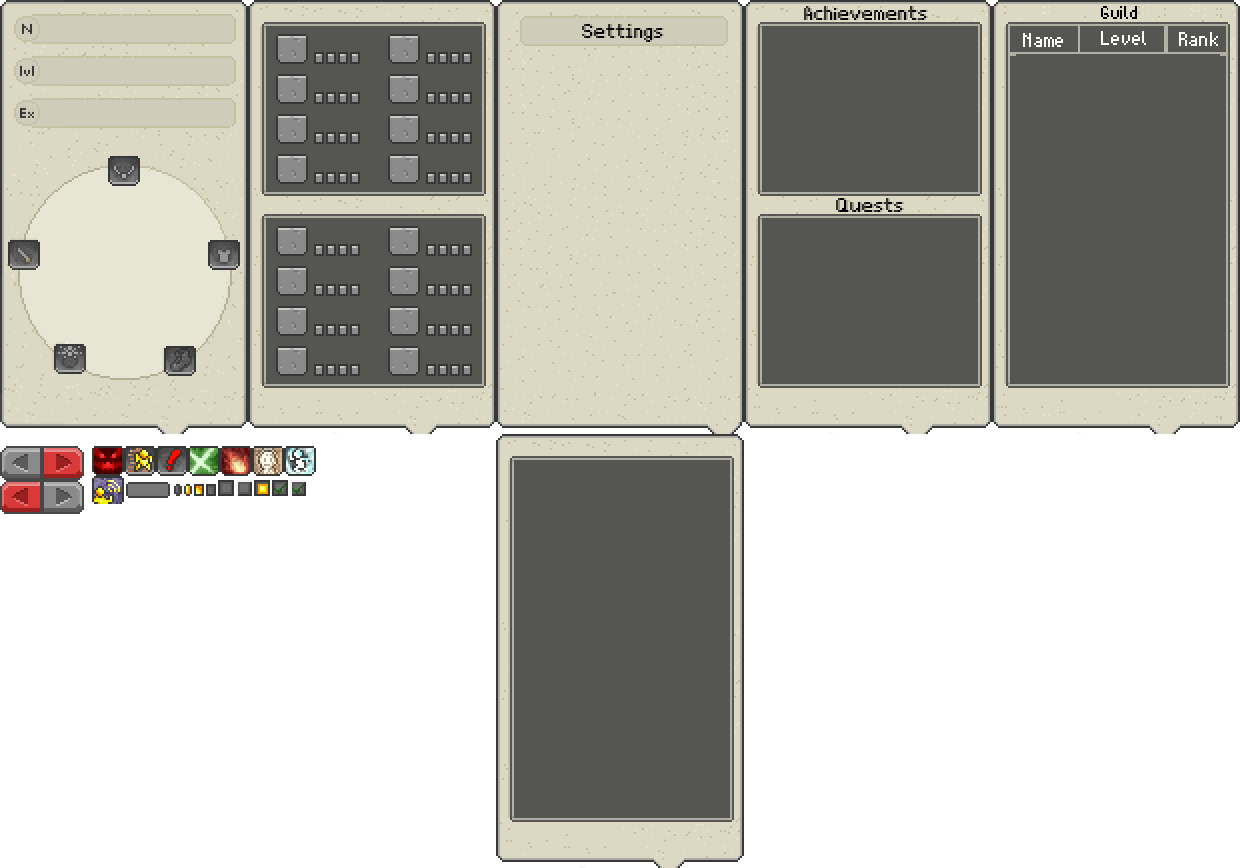
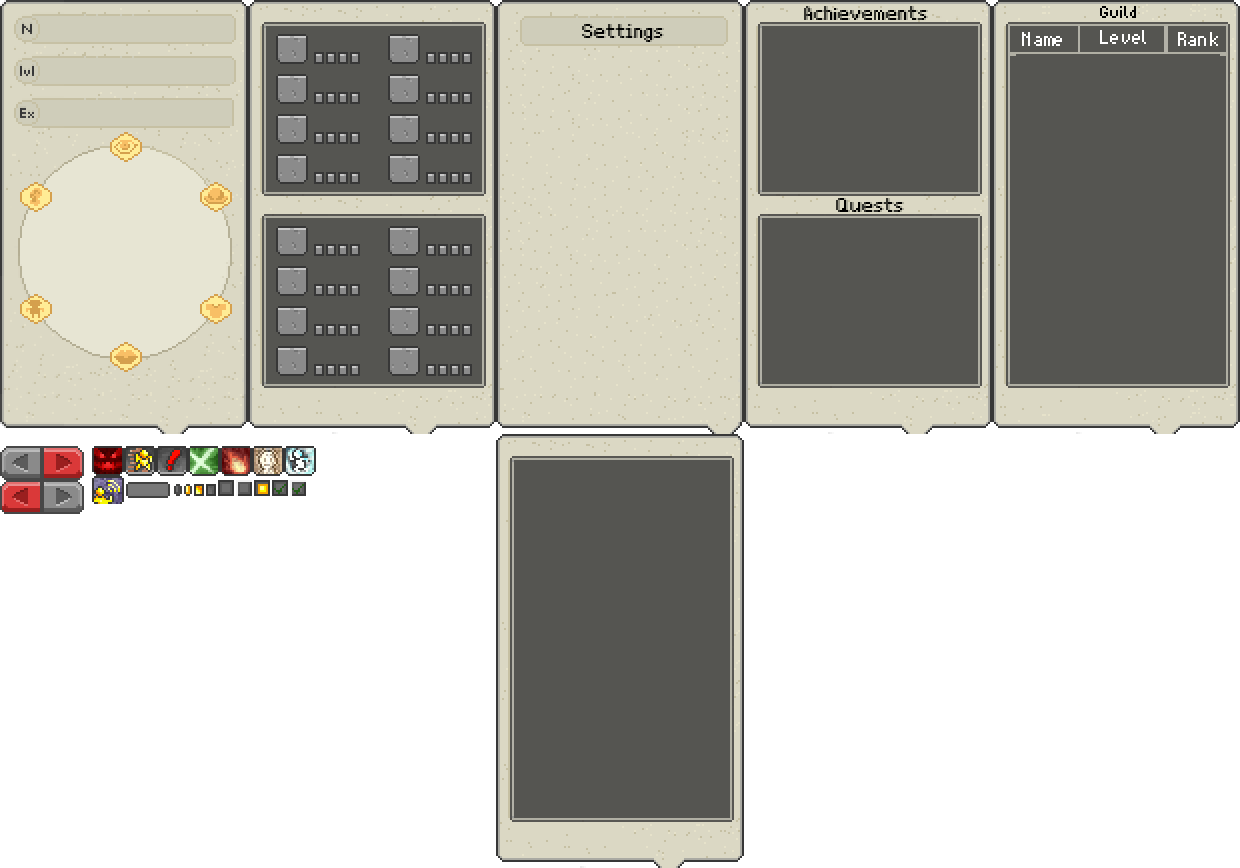
Equipment rendering and UI adjustments

diff --git a/packages/client/src/menu/profile/impl/state.ts b/packages/client/src/menu/profile/impl/state.ts
@@ -13,31 +13,26 @@ export default class State extends Menu {
     private experience: HTMLElement = document.querySelector('#profile-experience')!;
 
     // Equipment information
-    private weapon: HTMLElement = document.querySelector('#weapon-slot')!;
-    private weaponInfo: HTMLElement = document.querySelector('#weapon-slot-info')!;
-    private armour: HTMLElement = document.querySelector('#armour-slot')!;
-    private armourInfo: HTMLElement = document.querySelector('#armour-slot-info')!;
-
-    private pendant: HTMLElement = document.querySelector('#pendant-slot')!;
-    private ring: HTMLElement = document.querySelector('#ring-slot')!;
-    private boots: HTMLElement = document.querySelector('#boots-slot')!;
+    private eyes: HTMLElement = document.querySelector('#eyes-slot')!;
+    private hat: HTMLElement = document.querySelector('#hat-slot')!;
+    private clothes: HTMLElement = document.querySelector('#clothes-slot')!;
+    private mouth: HTMLElement = document.querySelector('#mouth-slot')!;
+    private fur: HTMLElement = document.querySelector('#fur-slot')!;
+    private ears: HTMLElement = document.querySelector('#ears-slot')!;
 
     private selectCallback?: SelectCallback;
 
     public constructor() {
         super('#state-page');
 
-        // this.weapon.addEventListener('click', () =>
-        //     this.selectCallback?.(Modules.Equipment.Weapon)
-        // );
-        // this.armour.addEventListener('click', () =>
-        //     this.selectCallback?.(Modules.Equipment.Armour)
-        // );
-        // this.pendant.addEventListener('click', () =>
-        //     this.selectCallback?.(Modules.Equipment.Pendant)
-        // );
-        // this.ring.addEventListener('click', () => this.selectCallback?.(Modules.Equipment.Ring));
-        // this.boots.addEventListener('click', () => this.selectCallback?.(Modules.Equipment.Boots));
+        this.eyes.addEventListener('click', () => this.selectCallback?.(Modules.Equipment.Eyes));
+        this.hat.addEventListener('click', () => this.selectCallback?.(Modules.Equipment.Hat));
+        this.clothes.addEventListener('click', () =>
+            this.selectCallback?.(Modules.Equipment.Clothes)
+        );
+        this.mouth.addEventListener('click', () => this.selectCallback?.(Modules.Equipment.Mouth));
+        this.fur.addEventListener('click', () => this.selectCallback?.(Modules.Equipment.Fur));
+        this.ears.addEventListener('click', () => this.selectCallback?.(Modules.Equipment.Ears))
     }
 
     /**
@@ -49,18 +44,20 @@ export default class State extends Menu {
 
     public override synchronize(player: Player): void {
         // Synchronize the player's general information
-        // this.name.textContent = player.name;
-        // this.level.textContent = `Level ${player.level}`;
-        // this.experience.textContent = `${player.experience}`;
-        // // Synchronize equipment data
-        // this.weapon.style.backgroundImage = Util.getImageURL(player.getWeapon().key);
-        // // Cloth armour shouldn't be displayed in the UI.
-        // this.armour.style.backgroundImage = Util.getImageURL(
-        //     player.getFur().key === 'clotharmor' ? '' : player.getFur().key
-        // );
-        // this.pendant.style.backgroundImage = Util.getImageURL(player.getPendant().key);
-        // this.ring.style.backgroundImage = Util.getImageURL(player.getRing().key);
-        // this.boots.style.backgroundImage = Util.getImageURL(player.getBoots().key);
+        this.name.textContent = player.name;
+        this.level.textContent = `Level ${player.level}`;
+        this.experience.textContent = `${player.experience}`;
+
+        // Synchronize equipment data
+        this.eyes.style.backgroundImage = Util.getImageURL(player.getEyes().key);
+        this.hat.style.backgroundImage = Util.getImageURL(player.getHat().key);
+        this.clothes.style.backgroundImage = Util.getImageURL(player.getClothes().key);
+        this.mouth.style.backgroundImage = Util.getImageURL(player.getMouth().key);
+        // Default green fur shouldn't be displayed in the equipment screen.
+        this.fur.style.backgroundImage = Util.getImageURL(
+            player.getFur().key === 'fur_green' ? '' : player.getFur().key
+        );
+        this.ears.style.backgroundImage = Util.getImageURL(player.getEars().key);
     }
 
     /**

diff --git a/packages/client/scss/interface.scss b/packages/client/scss/interface.scss
@@ -899,49 +899,50 @@
             left: 24px * $i;
         }
 
-        #weapon-slot-info {
-            top: 123px * $i;
-            left: 22px * $i;
-        }
-
         #armour-slot-info {
             width: 102px * $i;
             top: 123px * $i;
             text-align: right;
         }
 
-        #weapon-slot,
-        #armour-slot,
-        #pendant-slot,
-        #ring-slot,
-        #boots-slot {
+        #eyes-slot,
+        #hat-slot,
+        #clothes-slot,
+        #mouth-slot,
+        #fur-slot,
+        #ears-slot {
             margin-top: -2px * $i;
             background-size: 600%;
         }
 
-        #weapon-slot {
-            left: 4px * $i;
-            top: 120px * $i;
+        #eyes-slot {
+            left: 55px * $i;
+            top: 68px * $i;
         }
 
-        #armour-slot {
-            left: 104px * $i;
-            top: 119px * $i;
+        #hat-slot {
+            left: 100px * $i;
+            top: 93px * $i;
         }
 
-        #pendant-slot {
-            left: 54px * $i;
-            top: 78px * $i;
+        #clothes-slot {
+            left: 100px * $i;
+            top: 99px * $i;
         }
 
-        #ring-slot {
-            left: 27px * $i;
-            top: 172px * $i;
-        }
-
-        #boots-slot {
-            left: 82px * $i;
+        #mouth-slot {
+            left: 55px * $i;
             top: 173px * $i;
+        }
+
+        #fur-slot {
+            left: 10px * $i;
+            top: 149px * $i;
+        }
+
+        #ears-slot {
+            left: 10px * $i;
+            top: 93px * $i;
         }
 
         #profile-name {

diff --git a/packages/client/index.html b/packages/client/index.html
@@ -458,13 +458,13 @@
                         <div id="profile-name" class="profile-info"></div>
                         <div id="profile-level" class="profile-info"></div>
                         <div id="profile-experience" class="profile-info"></div>
-                        <div id="weapon-slot" class="profile-slot"></div>
-                        <div id="weapon-slot-info" class="profile-item-info"></div>
-                        <div id="armour-slot" class="profile-slot"></div>
-                        <div id="armour-slot-info" class="profile-item-info"></div>
-                        <div id="pendant-slot" class="profile-slot"></div>
-                        <div id="ring-slot" class="profile-slot"></div>
-                        <div id="boots-slot" class="profile-slot"></div>
+
+                        <div id="eyes-slot" class="profile-slot"></div>
+                        <div id="hat-slot" class="profile-slot"></div>
+                        <div id="clothes-slot" class="profile-slot"></div>
+                        <div id="mouth-slot" class="profile-slot"></div>
+                        <div id="fur-slot" class="profile-slot"></div>
+                        <div id="ears-slot" class="profile-slot"></div>
                     </div>
                     <div id="quest-page" class="page">
                         <div id="achievement-count" class="stroke"></div>

diff --git a/packages/client/src/renderer/renderer.ts b/packages/client/src/renderer/renderer.ts
@@ -771,6 +771,7 @@ export default class Renderer {
      * on top of the entity (after rendering). It will primarily
      * be used for the paper-doll effect of drawing weapon and
      * armour sprites on top of the player characters.
+     * @param entity The entity we are drawing.
      */
 
     private drawEntityFore(entity: Entity): void {
@@ -779,7 +780,11 @@ export default class Renderer {
         if (!(entity instanceof Character)) return;
 
         if (entity.isPlayer()) {
-            //
+            this.drawEquipment(entity as Player, (entity as Player).getEyes());
+            this.drawEquipment(entity as Player, (entity as Player).getHat());
+            this.drawEquipment(entity as Player, (entity as Player).getClothes());
+            this.drawEquipment(entity as Player, (entity as Player).getMouth());
+            this.drawEquipment(entity as Player, (entity as Player).getEars());
         }
 
         if (entity.hasEffect()) this.drawEffect(entity);
